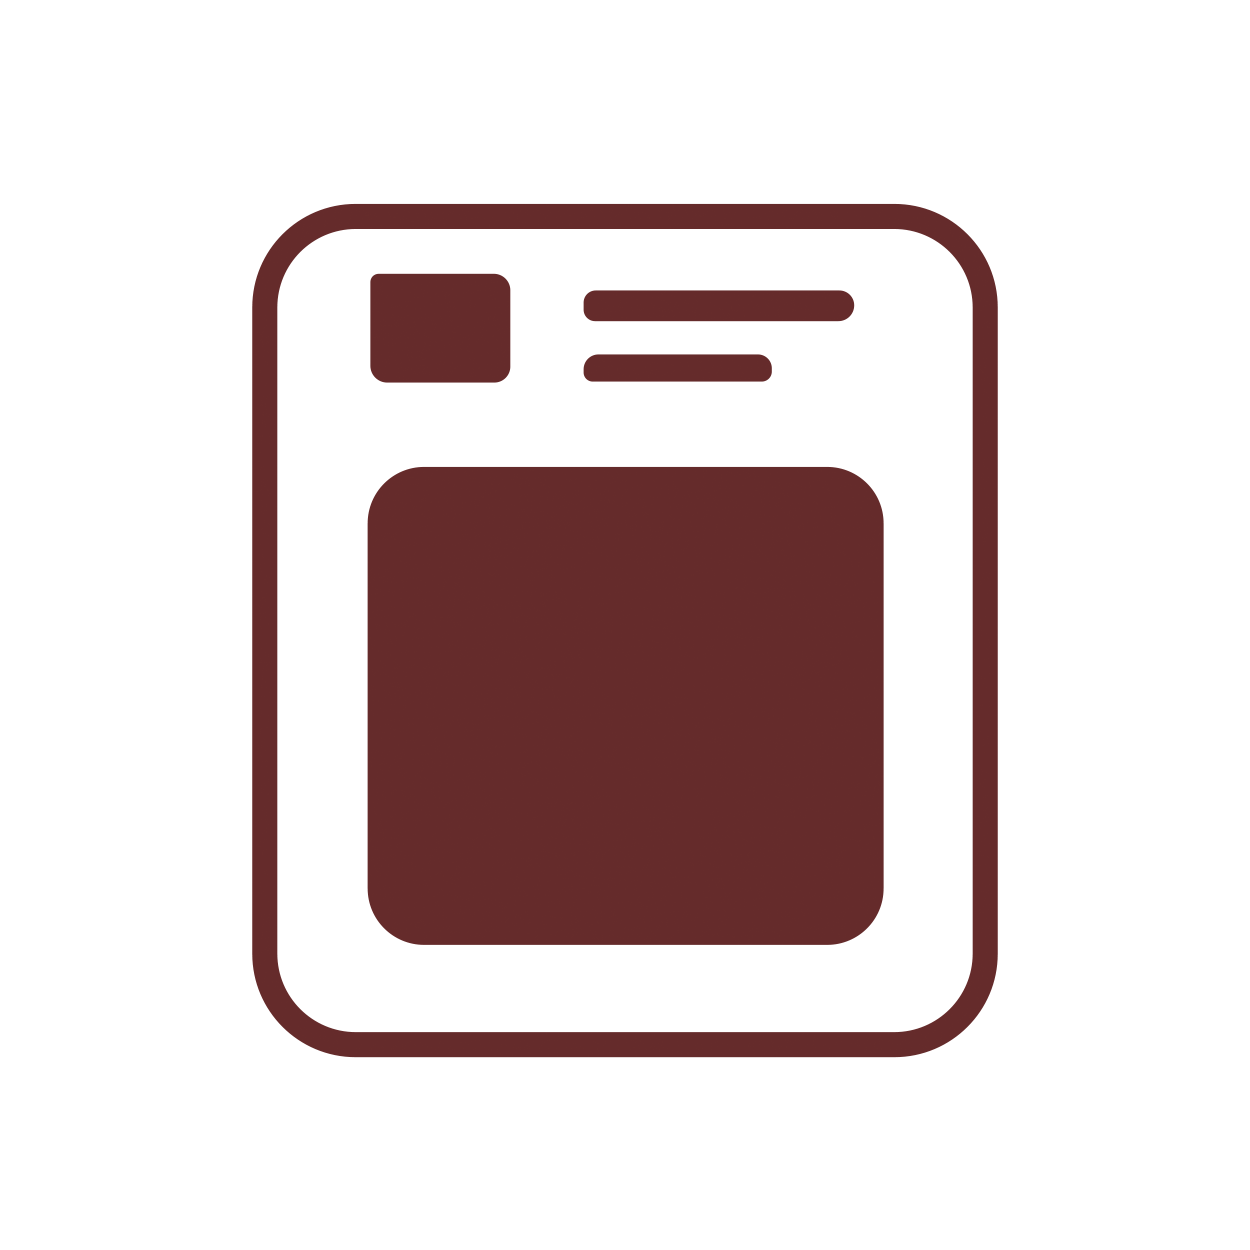
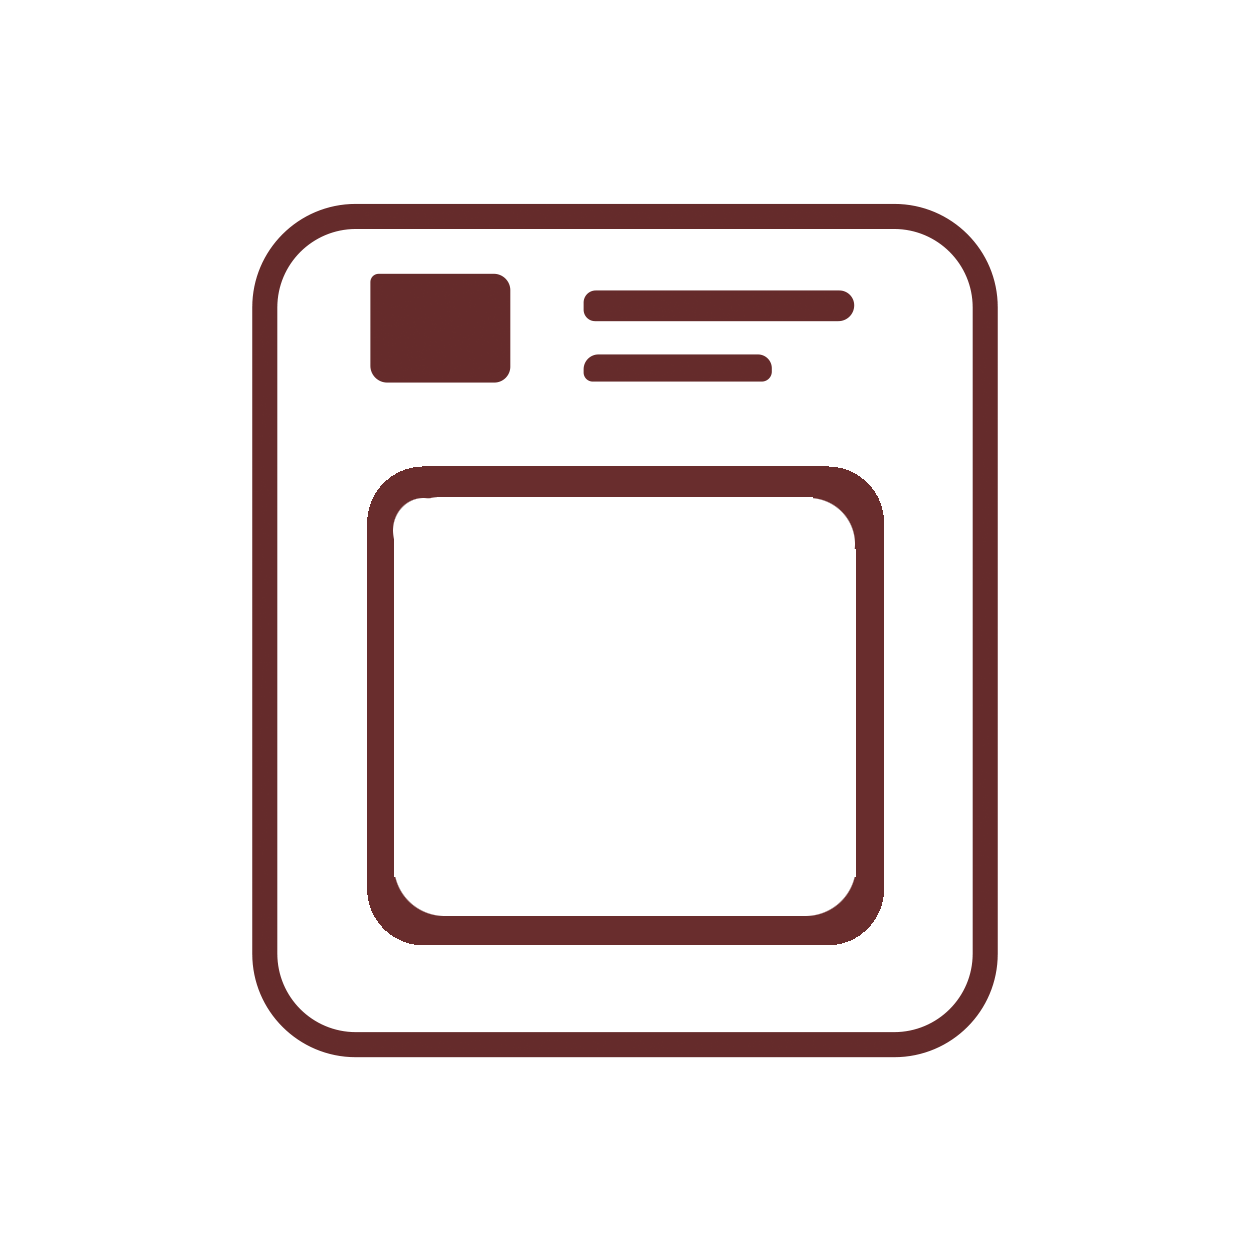
Creando eventos hover a los botones del muro

Changed region(s): [[0.312, 0.3744, 0.6864, 0.7488]]

diff --git a/src/style.css b/src/style.css
@@ -184,7 +184,7 @@ h1 {
 }
 
 #time-line {
-   background-image: url("./images/muro.png");
+   background-image: url("./images/muro2.png");
    background-color:white; 
    background-position: center;
    background-size: cover;
@@ -194,6 +194,10 @@ h1 {
    border: 0px; 
    margin-left: 8%;
    margin-right: 8%;
+}
+
+#time-line:hover {
+    background-image: url("./images/muro.png");
 }
 
 #perfil {
@@ -209,6 +213,10 @@ h1 {
    margin-left: 8%;
 }
 
+#perfil:hover {
+    background-image: url("./images/perfil.png");
+}
+
 #log-out {
     background-image: url("./images/cerrar.png");
     background-color: white; 
@@ -220,6 +228,10 @@ h1 {
     border: 0px; 
     margin-left: 8%;
     margin-right: 8%;
+}
+
+#log-out:hover {
+    background-image: url("./images/cerrar2.png");
 }
 
 #user-photo {
